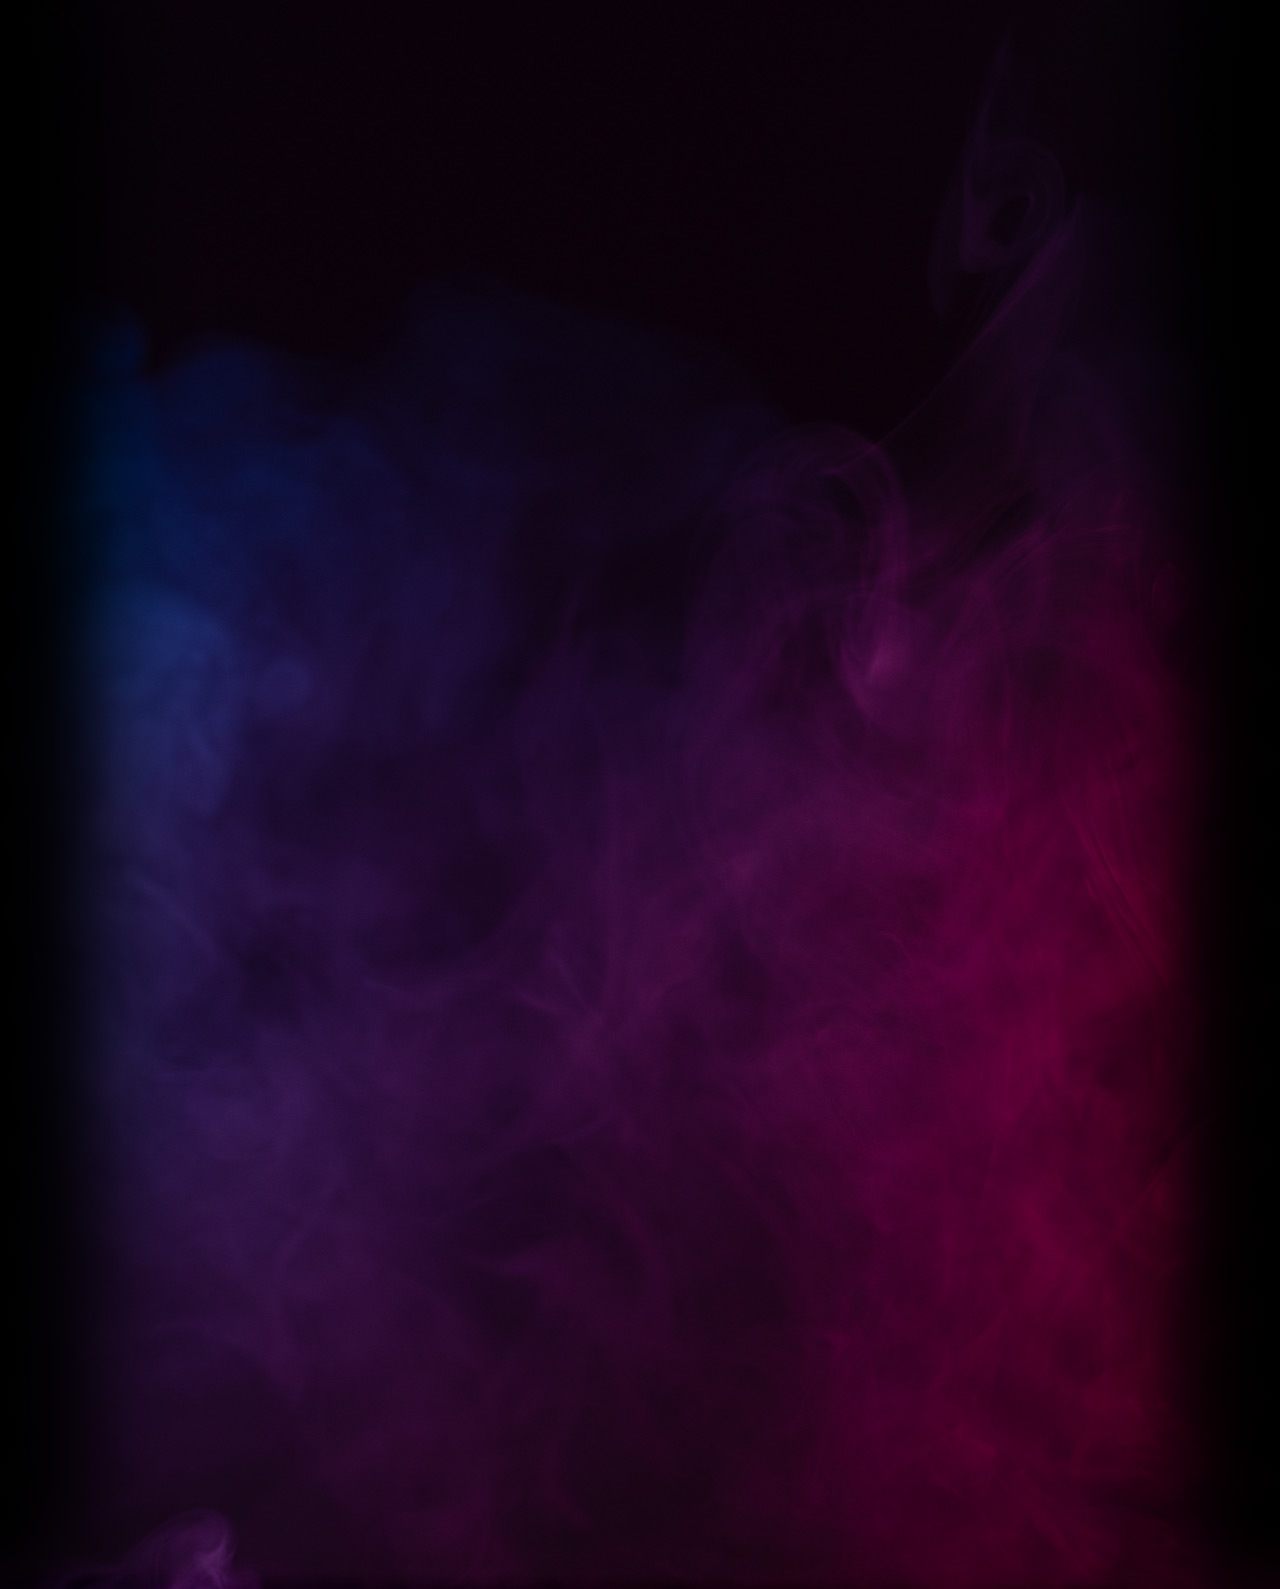
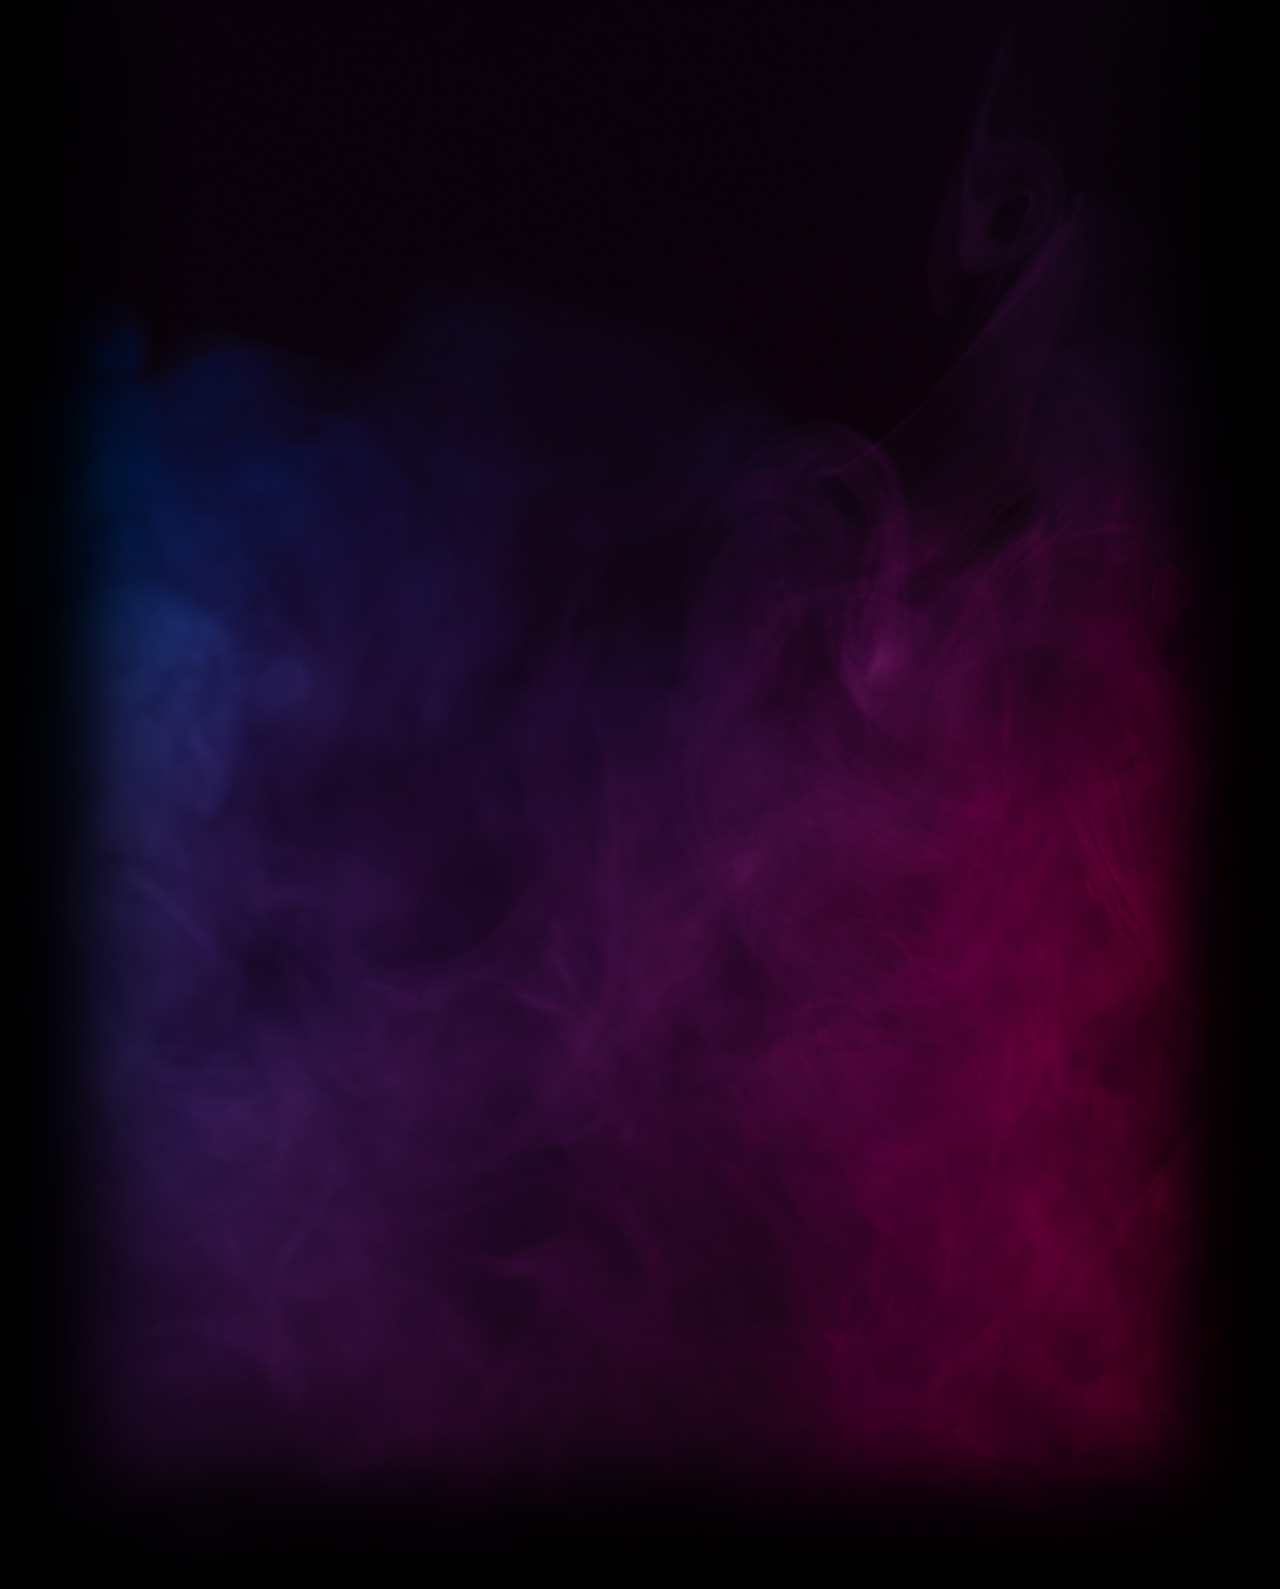
feat: fully responsive main

Changed region(s): [[0.0625, 0.8943, 0.9375, 1.0]]

diff --git a/components/Footer/Footer.tsx b/components/Footer/Footer.tsx
@@ -4,34 +4,36 @@ export const Footer: React.FC = () => {
   const year = new Date().getFullYear();
   return (
     <footer className='footer'>
-      <div className='footer__legal'>
-        <p className='footer__text'>
-          <Link href='/datenschutz'>
-            <a className='footer__link'>Datenschutz</a>
-          </Link>
-        </p>
-      </div>
-      <div className='footer__copyright'>
-        <p className='footer__text'>
-          Copyright ©{year} 1001NachtBellydanceFestival. Alle&nbsp;Reche&nbsp;vorbehalten.
-        </p>
-        <p className='footer__text'>
-          <a className='footer__link' href='mailto:nafisa@mac.com'>
-            nafisa@mac.com
-          </a>{' '}
-          / +4916098244407
-        </p>
-        <p className='footer__text'>
-          Created by{' '}
-          <a
-            className='footer__link'
-            href='https://bestpicture.pro'
-            target='_blank'
-            rel='noreferrer'
-          >
-            Vladimir Kluchenkov
-          </a>
-        </p>
+      <div className='footer__content'>
+        <div className='footer__legal'>
+          <p className='footer__text'>
+            <Link href='/datenschutz'>
+              <a className='footer__link'>Datenschutz</a>
+            </Link>
+          </p>
+        </div>
+        <div className='footer__copyright'>
+          <p className='footer__text'>
+            Copyright ©{year} 1001NachtBellydanceFestival. Alle&nbsp;Reche&nbsp;vorbehalten.
+          </p>
+          <p className='footer__text'>
+            <a className='footer__link' href='mailto:nafisa@mac.com'>
+              nafisa@mac.com
+            </a>{' '}
+            / +4916098244407
+          </p>
+          <p className='footer__text'>
+            Created by{' '}
+            <a
+              className='footer__link'
+              href='https://bestpicture.pro'
+              target='_blank'
+              rel='noreferrer'
+            >
+              Vladimir Kluchenkov
+            </a>
+          </p>
+        </div>
       </div>
     </footer>
   );

diff --git a/styles/home.css b/styles/home.css
@@ -34,10 +34,6 @@
   margin: 10px 0 0;
 }
 
-.main__text_centered {
-  text-align: center;
-}
-
 .main__text_strong {
   font-weight: 700;
 }
@@ -98,6 +94,10 @@
   margin: 15px 0 10px;
 }
 
+.info__text {
+  text-align: center;
+}
+
 .info__links {
   margin: 0;
   padding: 0;
@@ -125,7 +125,6 @@
 
 @media screen and (min-width: 768px) {
   .main {
-    width: 100%;
     padding: 0 30px 40px;
     display: grid;
     grid-template-columns: 1fr 1fr;
@@ -194,5 +193,48 @@
 
   .main__poster-container {
     padding: 34px 0 0;
+  }
+}
+
+@media screen and (min-width: 1024px) {
+  .main {
+    padding: 0 80px 40px;
+    grid-column-gap: 35px;
+    max-width: 1024px;
+    margin: 0 auto;
+  }
+
+  .main__subheader {
+    padding-bottom: 15px;
+  }
+
+  .stars__bullets {
+    padding: 0 0 0 18px;
+  }
+
+  .stars__bullet {
+    padding-bottom: 0;
+  }
+
+  .info {
+    grid-column: 2 / -1;
+    padding: 5px;
+  }
+
+  .info__header {
+    text-align: left;
+  }
+
+  .info__links {
+    text-align: left;
+    gap: 3px;
+  }
+
+  .info__text {
+    text-align: left;
+  }
+
+  .main__poster-container {
+    grid-row: 3 / 5;
   }
 }

diff --git a/styles/footer.css b/styles/footer.css
@@ -3,10 +3,16 @@
   background-color: rgba(0, 0, 0, 0.6);
   margin: 0 0 -16px;
   padding: 15px 20px;
+}
+
+.footer__content {
+  width: 100%;
   display: flex;
   flex-direction: column;
   align-items: center;
   gap: 10px;
+  max-width: 864px;
+  margin: 0 auto;
 }
 
 .footer__text {
@@ -29,6 +35,10 @@
 
 @media screen and (min-width: 768px) {
   .footer {
+    padding: 15px 30px;
+  }
+
+  .footer__content {
     flex-direction: row-reverse;
     align-items: flex-start;
     justify-content: space-between;
@@ -36,5 +46,11 @@
 
   .footer__text {
     text-align: left;
+  }
+}
+
+@media screen and (min-width: 1024px) {
+  .footer {
+    padding: 20px 80px;
   }
 }

diff --git a/pages/index.tsx b/pages/index.tsx
@@ -54,10 +54,10 @@ const Home: NextPage = () => {
           </ul>
         </section>
         <section className='info'>
-          <p className='main__text main__text_centered'>
+          <p className='main__text info__text'>
             <span className='main__text_strong'>Organisator:</span> Nafisa
           </p>
-          <p className='main__text main__text_centered'>
+          <p className='main__text info__text'>
             Ich freue mich von ganzem Herzen dieses außergewöhnliche Tanzwochenende wieder
             präsentieren zu dürfen und Euch wiederzusehen!
           </p>

diff --git a/styles/globals.css b/styles/globals.css
@@ -27,3 +27,9 @@ a {
     background-size: 120%;
   }
 }
+
+@media screen and (min-width: 1024px) {
+  body {
+    background-size: 1280px;
+  }
+}
